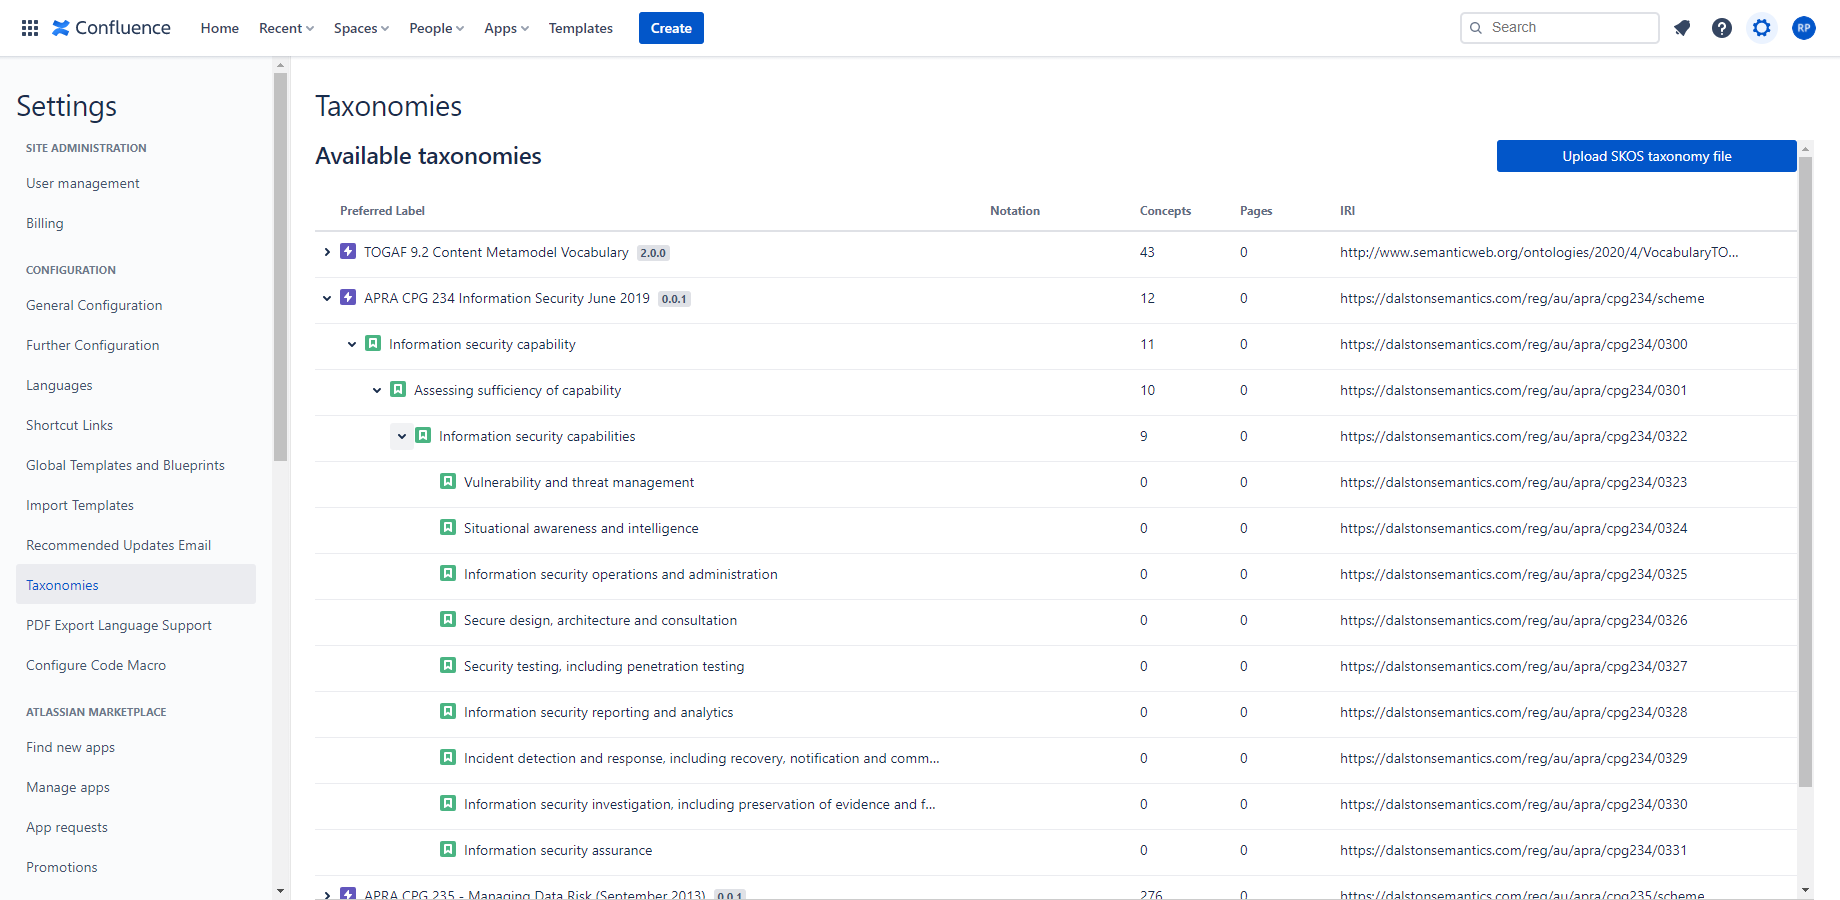
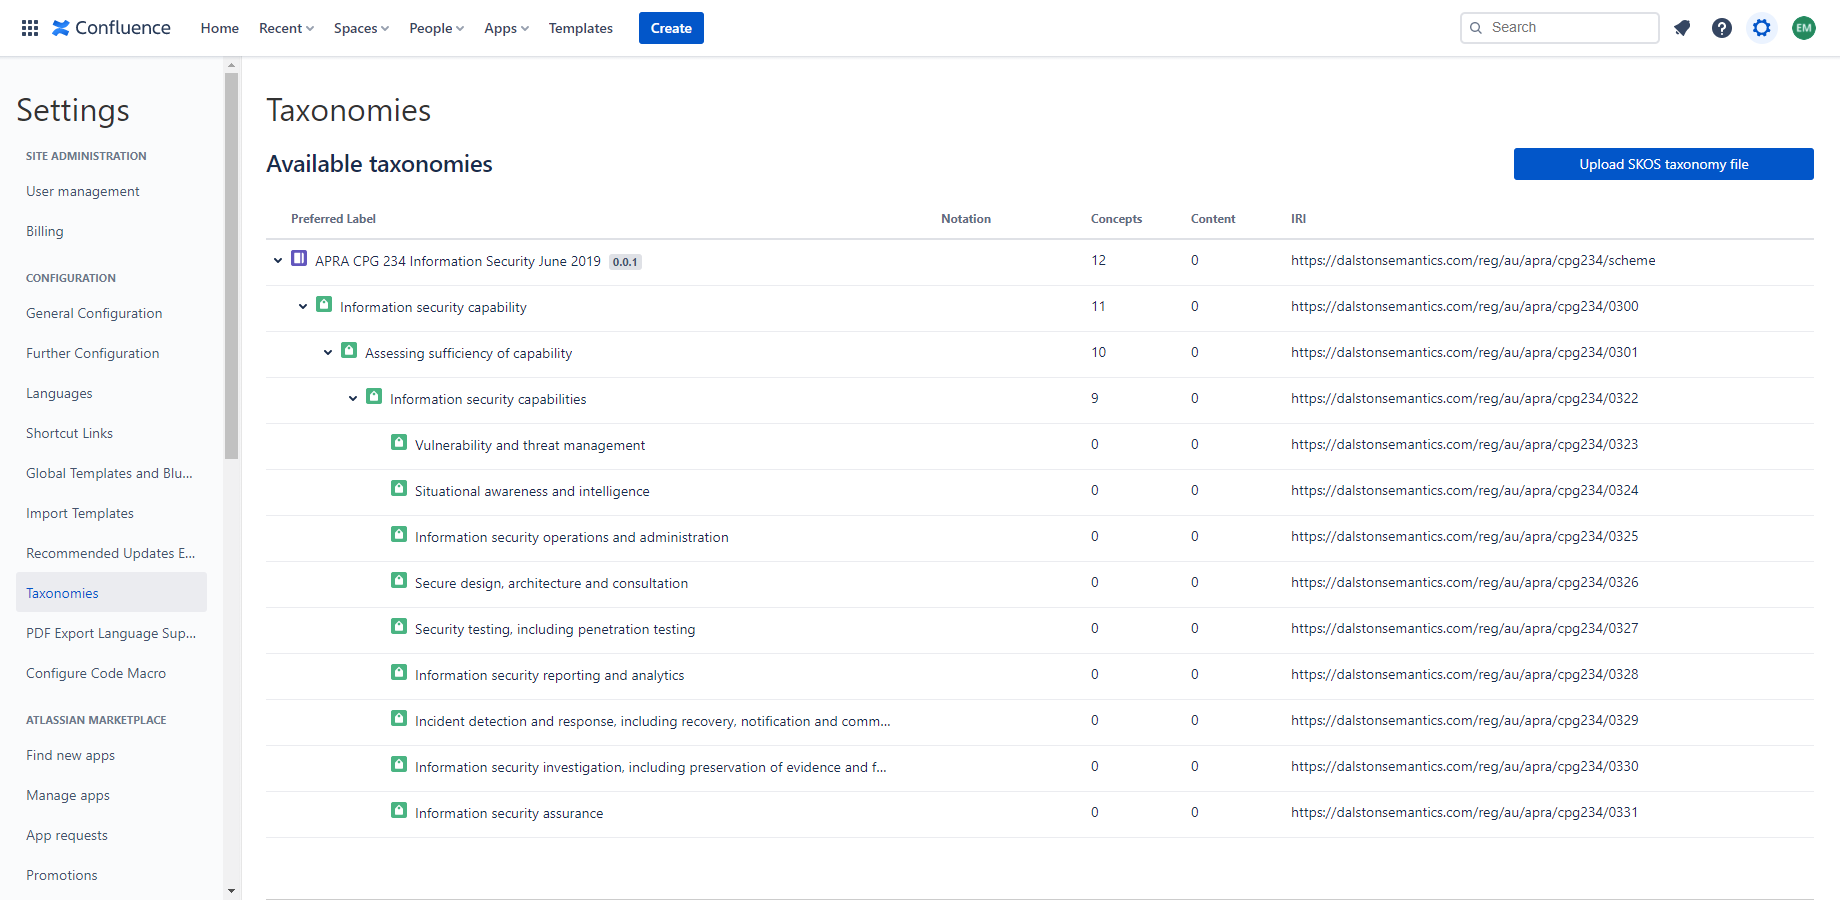
Updates screenshots.

diff --git a/README.md b/README.md
@@ -2,9 +2,9 @@
 
 This taxonomy of information security capabilities is derived from [CPG 234 Information Security](https://www.apra.gov.au/information-security). This initial version can be extended to cover the entirety of CPG 234.
 
-Use it with [Confluence](https://www.atlassian.com/software/confluence) to annotate Confluence pages and track alignment with CPG 234.
+Use it with [Taxonomies for Confluence](https://dalstonsemantics.com/services/taxonomies-for-confluence/) to index [Confluence](https://www.atlassian.com/software/confluence) pages and track alignment with CPG 234.
 
-![CPG 234 in Confluence Semantics](cpg234-confluence.png "CPG 234 in Confluence Semantics")
+![CPG 234 in Taxonomies for Confluence](cpg234-confluence.png "CPG 234 in Taxonomies for Confluence")
 
 Developed with [Simple Knowledge Organization System (SKOS)](https://www.w3.org/2004/02/skos/) this taxonomy can also be imported and published with [controlled vocabulary tools](https://github.com/gbv/bartoc.org/wiki/Software-for-controlled-vocabularies).
 
